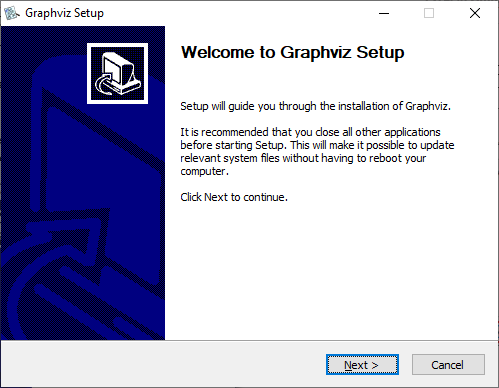
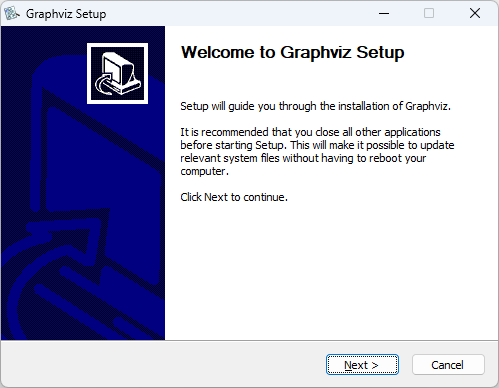
Updated screen prints of Graphviz installation

Changed region(s): [[0.0, 0.0, 1.0, 1.0], [0.0, 0.0, 0.2104, 0.0619]]

diff --git a/docs/install-win/README.md b/docs/install-win/README.md
@@ -11,63 +11,36 @@ next: /terminology/
 
 Download the installation media from the Windows section of the Graphviz download page at <http://graphviz.org/download/> which appears as:
 
-![](../media/ff295e502adb22e77efba6abb86a0507.png)
+|![](../media/ff295e502adb22e77efba6abb86a0507.png)|
+| ------------------------------------- |
 
 You will be presented with a choice of links. Win32 for the 32-bit installer, and x64 for the 64-bit installer. Choose the link which corresponds with the Windows architecture of your machine.
 
-Download the installer file. At the time of this writing (29-Aug-2021) the files are named:
+Download the installer file. At the time of this writing (11-Apr-2023) the files are named:
 
-- **2.49.0 EXE installer for Windows 10 (64-bit):** [stable_windows_10_cmake_Release_x64_graphviz-install-2.49.0-win64.exe](https://gitlab.com/api/v4/projects/4207231/packages/generic/graphviz-releases/2.49.0/stable_windows_10_cmake_Release_x64_graphviz-install-2.49.0-win64.exe)
-- **2.49.0 EXE installer for Windows 10 (32-bit):** [stable_windows_10_cmake_Release_Win32_graphviz-install-2.49.0-win32.exe](https://gitlab.com/api/v4/projects/4207231/packages/generic/graphviz-releases/2.49.0/stable_windows_10_cmake_Release_Win32_graphviz-install-2.49.0-win32.exe)
+- **graphviz-8.0.2 (64-bit) EXE installer** [windows_10_cmake_Release_graphviz-install-8.0.2-win64.exe](https://gitlab.com/api/v4/projects/4207231/packages/generic/graphviz-releases/8.0.2/windows_10_cmake_Release_graphviz-install-8.0.2-win64.exe)
+- **graphviz-8.0.2 (32-bit) EXE installer** [windows_10_cmake_Release_graphviz-install-8.0.2-win32.exe](https://gitlab.com/api/v4/projects/4207231/packages/generic/graphviz-releases/8.0.2/windows_10_cmake_Release_graphviz-install-8.0.2-win32.exe)
 
-and the links above will download the version 2.49.0 installers.
+::: tip Download blocked?
 
-**If you are using the Microsoft Edge browser the download may get blocked.**
+If you are using Microsoft Edge, ocassionally the download will be blocked. This is usually due to a new release of Graphviz being published and enough downloads have not occurred to tell Microsoft the download is safe.
 
-If blocked, you will see a warning icon in the download symbol. Clicking on the button provides the reason the download was blocked.![](../media/94ce6a6cbad3583dec3caac5a22e9510.png)
+Follow the steps on [this page](../blocked/) to learn how to override the block and download the file.
 
-Hover your mouse over the message, and a button with three dots will appear, along with a tooltip which says, “More actions”.
-
-![](../media/b09a6c5299b24dc133e167dbbe2b20ae.png)
-
-Click on the […] button, and a popup menu appears. Select “Keep” from the dropdown list.
-
-![](../media/bcf6a219b278f7796726543079756485.png)
-
-Microsoft Edge will again try to dissuade you from downloading the file with a warning “**This app might harm your device**”. It will appear that your only choices are `Delete` or `Cancel`. To keep the file you must click the `Show more v` dropdown.
-
-![](../media/3466d8ae66805d90080ee3083f188f1a.png)
-
-Three additional choices will now appear:
-
-- `Keep anyway`
-- `Report this app as safe`
-- `Learn more`
-
-![](../media/efd3d173af8c782fb739f9a0698e3066.png)
-
-Click on `Keep anyway`
-
-![](../media/efd3d173af8c782fb739f9a0698e3066.png)
-
-Now the installer file shows up as a download. Click on `Open file` to run the installer.
-
-![](../media/7fd0cb6d4e676caea950589d2c1e8cc2.png)
+:::
 
 ### Step 2 - Launch the installer file.
 
-Once again you will receive a security warning since this file was downloaded over the internet. It will appear that your only choice is `Don’t run`. To run the installer, click on the `More info` link.
+Click on `Open file` to run the installer.
 
-![](../media/99eeef8a624d07d6edca9c475c356fa9.png)
-
-Information showing the name of the installer file is shown, and a `Run anyway` button appears. Click this button
-
-![](../media/cf892b8d9ec9a8fe77f4539643180dc9.png)
+|![](../media/7fd0cb6d4e676caea950589d2c1e8cc2.png)|
+| ------------------------------------- |
 
 A User Access Control warning will now take over the screen and ask
 
-| User Access Control <br><br>Do you want to allow this app from an unknown publisher to make changes to your device?<br><br>Stable_windows_10_cmake_Release_x64_graphviz-install-2.49.0-win64.exe<br><br>Publisher unknown<br><br>File origin: Hard drive on this computer<br><br>[Yes] [No] |
-| ------------------------------------------------------------------------------------------------------------------------------------------------------------------------------------------------------------------------------------------------------------------------------------------- |
+| User Access Control |
+| :------------------------------------------------------------------------------------------------------------------------------------------------------------------------------------------------------------------------------------------------------------------------------------------- |
+| Do you want to allow this app from an<br>unknown publisher to make changes to your<br>device?<br><br>windows_10_cmake_Release_x64_graphviz-install-8.0.2-win64.exe<br><br>Publisher unknown<br><br>File origin: Hard drive on this computer<br><br>Show more details<br><br>[   Yes   ] [   No   ] |
 
 Press the `Yes` button, and the Graphviz installer will begin to run.
 
@@ -113,12 +86,6 @@ Once the **Completing Graphviz Setup** screen appears press the "Finish" button.
 
 ![](../media/2385b02261f96d2a99efe2215cc816e0.png)
 
-### Step 10 - Confirm Installation
-
-Confirm Graphviz is installed. If you select the Microsoft Windows start button you should see `Graphviz` as a program folder.
-
-![](../media/da1e883e0522dd8f4f311361532c6455.png)
-
 ## Edit the System PATH Environment Variable
 
 The Relationship Visualizer utilizes the command line programs provided by Graphviz. The Graphviz installer can modify your PATH environment variable, however if your path is too long the installer may fail. It is your responsibility to perform this task manually when following these instructions.
@@ -129,69 +96,80 @@ The detailed steps illustrated using a Microsoft Windows 10 operating system are
 
 Click the Start button and begin to type "Control Panel". Select the Control Panel icon when it appears.
 
-![](../media/267b9de8b8ccf5988f178ad6f72ea8ed.png)
+|![](../media/267b9de8b8ccf5988f178ad6f72ea8ed.png)|
+| ------------------------------------- |
 
 ### Step 2 - Click on "System and Security"
 
 Click on "System and Security"
 
-![](../media/033e8289a0f34c863af9ccd08b6a9bc7.png)
+|![](../media/033e8289a0f34c863af9ccd08b6a9bc7.png)|
+| ------------------------------------- |
 
 ### Step 3 - Click on `System`
 
 Click on `System`
 
-[](../media/8f5be5336e3d3c3db5dcf66235aec61f.png)
+|![](../media/control_panel_system.png)|
+| ------------------------------------- |
 
 ### Step 4 - Find a Setting
 
 Under “Home”, begin to type “Environment Variables” in the search box “find a setting”.
 
-![](../media/9a9dd63a314780057022c5cf6ffed24a.png)
-
+|![](../media/find_a_setting.png)|
+| ------------------------------------- |
 Choices beginning with “Env” will begin to appear. Select “Edit the system environment variables”.
 
-![](../media/c86551a29e2419d4c4b0be222cb8ed56.png)
+|![](../media/c86551a29e2419d4c4b0be222cb8ed56.png)|
+| ------------------------------------- |
 
 ### Step 5 - Select the "Environment Variables…" button.
 
 Select the "Environment Variables…" button.
 
-![](../media/20e421cf752541cf898d91d9f4c2b454.png)
+|![](../media/20e421cf752541cf898d91d9f4c2b454.png)|
+| ------------------------------------- |
 
 ### Step 6 - Edit PATH environment variable
 
 “Path” appears in the “User variables” as well as the “System variables”. Highlight the "Path" line in the “Systems variables” list (the bottom list), then select the "Edit…" button.
 
-![](../media/8c9a70d533ee0a67b10a0ac6aecb38a2.png)
+|![](../media/8c9a70d533ee0a67b10a0ac6aecb38a2.png)|
+| ------------------------------------- |
 
 ### Step 7 - Press `New`
 
 The "Edit environment variable" dialog appears. Press the "New" button.
 
-![](../media/429280385674cae4ec6c208bfd19c053.png)
+|![](../media/429280385674cae4ec6c208bfd19c053.png)|
+| ------------------------------------- |
 
 ### Step 8 - Press `Browse...`
 
 A new line is added at the bottom of the list. Press the "Browse…" button.
 
-![](../media/1b656cc0fc9b7778c5027c2790ba7abc.png)
+|![](../media/1b656cc0fc9b7778c5027c2790ba7abc.png)|
+| ------------------------------------- |
 
 ### Step 9 - Navigate to graphviz\bin
 
 The "Browse for Folder" dialog appears. Navigate to the Graphviz bin directory, then press the OK button.
 
-![](../media/87a0bad2c5d222f055f4ae3a24c610ed.png)
+|![](../media/87a0bad2c5d222f055f4ae3a24c610ed.png)|
+| ------------------------------------- |
 
 If your list is long you may want to use the "Move Up" button to move the directory up in the PATH. Press the OK button.
 
-![](../media/5c2c576b5b6915ef281da122a420e7fb.png)
+|![](../media/5c2c576b5b6915ef281da122a420e7fb.png)|
+| ------------------------------------- |
 
 ### Step 10 - Commit the change
 
 You are returned to the "Environment Variables" dialog. Press the OK button to commit the environment variable changes and close the dialog.
 
-![](../media/b95cc74fdbea30dcc9bd1035bba69593.png)
+|![](../media/b95cc74fdbea30dcc9bd1035bba69593.png)|
+| ------------------------------------- |
 
 ### Step 11 - Restart Windows
 
@@ -203,30 +181,38 @@ Technically this should not be necessary, but if you have already been running E
 
 At this point, you have completed the installation steps to install the Graphviz software.
 
-The Relationship Visualizer spreadsheet uses the command line programs to generate the graph visualizations. You must manually execute a command line command to configure the Graphviz plugins before you can use Graphviz properly. **DO NOT SKIP THIS STEP!**
+::: warning Do not skip these steps!
+
+The Relationship Visualizer spreadsheet uses the command line programs to generate the graph visualizations. You must manually execute a command line command to configure the Graphviz plugins before you can use Graphviz properly.
+
+:::
 
 Testing the command line programs prior to using the spreadsheet can help ensure that everything is in place correctly so that the spreadsheet can perform properly.
 
 ### Step 1 - Open a Command Prompt
 
-Open a Command Prompt window using the "Run as Administrator" option. Click on the Windows Start Menu icon and begin to type Command Prompt. When the Command Prompt App appears choose the "Run as administrator" option.
+Open a Command Prompt window using the `Run as Administrator` option. Click on the Windows Start Menu icon and begin to type Command Prompt. When the Command Prompt App appears choose the `Run as administrator` option.
 
-![](../media/f951a48ce6e619cea2dac5d6c14223ce.png)
+|![](../media/f951a48ce6e619cea2dac5d6c14223ce.png)|
+| ------------------------------------- |
 
 ### Step 2 - Run as Administrator
 
 You will get asked for permission to run a command prompt as Administrator.
 
-Press the "Yes" button.
+Press the `Yes` button.
 
-| User Access Control<br><br>Do you want to allow this app from an unknown publisher to make changes to your device? <br>Windows Command Processor Verified Publisher: Microsoft Windows<br><br>[Yes] [No] |
-| :------------------------------------------------------------------------------------------------------------------------------------------------------------------------------------------------------- |
+
+| User Access Control |
+|:------------------------------------------------------------------------------------------------------------------------------------------------------------------------------------------------------- |
+| Do you want to allow this app from an unknown publisher to make changes to your device? <br>Windows Command Processor Verified Publisher: Microsoft Windows<br><br>[   Yes   ] [   No   ] |
 
 ### Step 3 - Confirm Administrator rights
 
 A command prompt window appears. Confirm that the word “Administrator” appears in the Window title.
 
-![](../media/d6366c248a6137b8ac6fb4c1e62efc71.png)
+|![](../media/d6366c248a6137b8ac6fb4c1e62efc71.png)|
+| ------------------------------------- |
 
 ### Step 4 - Display Graphviz Version
 
@@ -236,11 +222,12 @@ Test that Graphviz is configured properly on the PATH by entering the command:
 
 noting that the `-V` switch (for version) should be in uppercase, not lowercase. The dot program should respond with the message:
 
-`dot - graphviz version 2.49.0 (20210828.1703)`
+`dot - graphviz version 8.0.2 (20230410.1723)`
 
 in similar fashion to the screen print below:
 
-![](../media/5fa025090c64e236250ef11491381a7e.png)
+|![](../media/5fa025090c64e236250ef11491381a7e.png)|
+| ------------------------------------- |
 
 If you receive the message:
 
@@ -256,7 +243,7 @@ It means one of the following things:
 ### Step 5 - Configure Graphviz Plugins
 
 ::: warning
-**This is an important step which must not be skipped.**
+Do not skip this important step!
 :::
 
 Configure the plugins by entering the command
@@ -265,7 +252,8 @@ Configure the plugins by entering the command
 
 No messages are written when the command executes; the screen will look as follows:
 
-![](../media/5064edc9733b86103d396b77bf46229c.png)
+|![](../media/5064edc9733b86103d396b77bf46229c.png)|
+| ------------------------------------- |
 
 ### Step 6 - View the Plugins List
 
@@ -275,19 +263,21 @@ To see the list of configured plugins type the command
 
 where the `-v` is lowercase. The screen will appear as follows:
 
-![](../media/c78124542c1b1932f338af41a25bad47.png)
+|![](../media/c78124542c1b1932f338af41a25bad47.png)|
+| ------------------------------------- |
 
-At this point Graphviz is waiting for more input. Hitting the Ctrl key + C key will break you from the dot program.
+At this point Graphviz is waiting for more input. Hitting the `Ctrl` key + `C` key will break you from the `dot` program.
 
 ### Step 7 - View Command Line Options
 
 To see the list of command line options you can enter the command
 
-`dot -?`
+`dot -?` or `dot --help`
 
 The screen will appear as follows:
 
-![](../media/2f6ee156f09f3ccce9a884967d634429.png)
+|![](../media/2f6ee156f09f3ccce9a884967d634429.png)|
+| ------------------------------------- |
 
 Congratulations! Graphviz is installed properly.
 
@@ -301,7 +291,7 @@ In the root directory of the Relationship Visualizer distribution there is a mac
 
 ### Step 2 - Perform File Save As
 
-Perform a "File -\> Save As" operation. When it asks you where to store the file, navigate to the directory where you currently have the template file (This PC \> Documents \> Custom Office Templates).
+Perform a `File` -> `Save As` operation. When it asks you where to store the file, navigate to the directory where you currently have the template file (This PC > Documents > Custom Office Templates).
 
 Next, you will see the file name is `Relationship Visualizer1`. Change it back to `Relationship Visualizer`.
 

diff --git a/docs/blocked/README.md b/docs/blocked/README.md
@@ -1,0 +1,67 @@
+---
+prev: /install-win/
+next: false
+---
+
+# What to do if Microsoft Edge blocks the Graphviz download
+
+The Microsoft Edge browser may blocked the download of the Graphviz installer file. If blocked, you will see a warning icon in the download symbol. 
+
+## Step 1
+
+Clicking on the button provides the reason the download was blocked.
+
+|![](../media/94ce6a6cbad3583dec3caac5a22e9510.png)|
+| ------------------------------------- |
+
+## Step 2
+
+Hover your mouse over the message, and a button with three dots will appear, along with a tooltip which says, `More actions`.
+
+|![](../media/b09a6c5299b24dc133e167dbbe2b20ae.png)|
+| ------------------------------------- |
+
+Click on the `[ooo]` button, and a popup menu appears. 
+
+## Step 3
+
+Select `Keep` from the dropdown list.
+
+|![](../media/bcf6a219b278f7796726543079756485.png)|
+| ------------------------------------- |
+
+## Step 4
+
+Microsoft Edge will again try to dissuade you from downloading the file with a warning such as “**Make sure you trust windows_10_cmake_Release_graphviz-install-8.0.2-win64.exe before you open it**”. 
+
+It will appear that your only choices are `Delete` or `Cancel`. To keep the file you must click the `Show more v` dropdown.
+
+|![](../media/3466d8ae66805d90080ee3083f188f1a.png)|
+| ------------------------------------- |
+
+Three additional choices will now appear:
+
+- `Keep anyway`
+- `Report this app as safe`
+- `Learn more`
+
+|![](../media/efd3d173af8c782fb739f9a0698e3066.png)|
+| ------------------------------------- |
+
+## Step 5
+
+Click on `Keep anyway`
+
+|![](../media/download_keep_anyway.png)|
+| ------------------------------------- |
+
+## Step 6
+
+Microsoft Edge downloads the file, and the installer file shows up as a download. Click on `Open file` to run the installer.
+
+|![](../media/7fd0cb6d4e676caea950589d2c1e8cc2.png)|
+| ------------------------------------- |
+
+## Step 7
+
+Resume the [installation steps](../install-win/)
